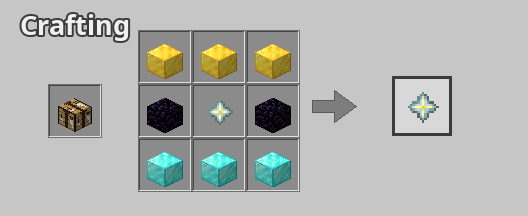
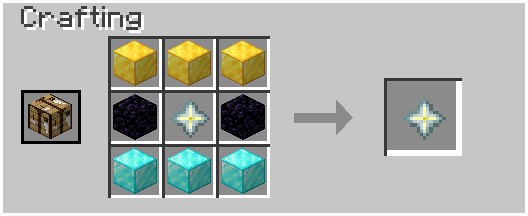
Unifica el estilo de las recetas y corrige la de la brújula
- Genera corazon.png y brujula.png con el mismo marco, grilla y fuente pixel que las mochilas
- Reemplaza la imagen externa de Modrinth por brujula.png local
- Corrige las perlas de ender de la brújula (2, no 4)

diff --git a/index.html b/index.html
@@ -975,11 +975,11 @@
             </div>
             <span class="recipe-badge">Receta</span>
           </div>
-          <img class="recipe-image" src="https://cdn.modrinth.com/data/y2sULbuo/images/8182d810ee4675c741b1e02ed37d3d4d4844fca4.jpeg" alt="Receta de la brújula rastreadora: aliento de dragón, ojo de ender y aliento de dragón; perla de ender, brújula y perla de ender; aliento de dragón, ojo de ender y aliento de dragón." width="506" height="211" loading="eager">
+          <img class="recipe-image" src="recipes/brujula.png" alt="Receta de la brújula rastreadora: aliento de dragón, ojo de ender y aliento de dragón; perla de ender, brújula y perla de ender; aliento de dragón, ojo de ender y aliento de dragón." width="528" height="216" loading="eager">
           <ul class="recipe-ingredients">
             <li>4× Aliento de dragón</li>
             <li>4× Ojo de ender</li>
-            <li>4× Perla de ender</li>
+            <li>2× Perla de ender</li>
             <li>1× Brújula</li>
           </ul>
           <p class="note">Al sostener el huevo: <strong>+4 corazones</strong>, Fuerza I y Resistencia al fuego I. La receta está activa en el servidor.</p>
